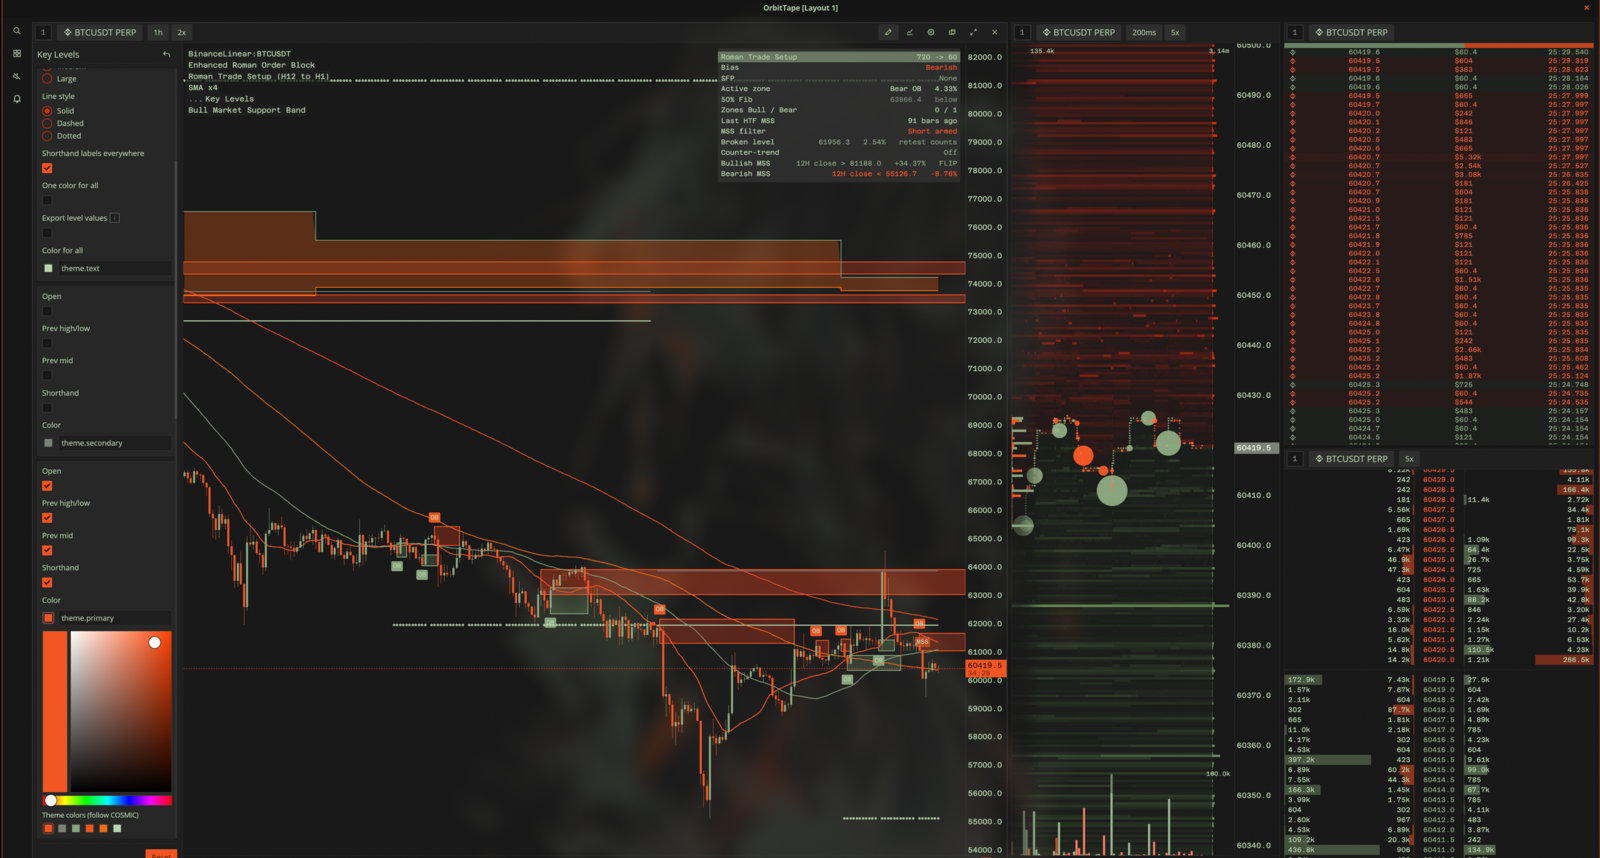
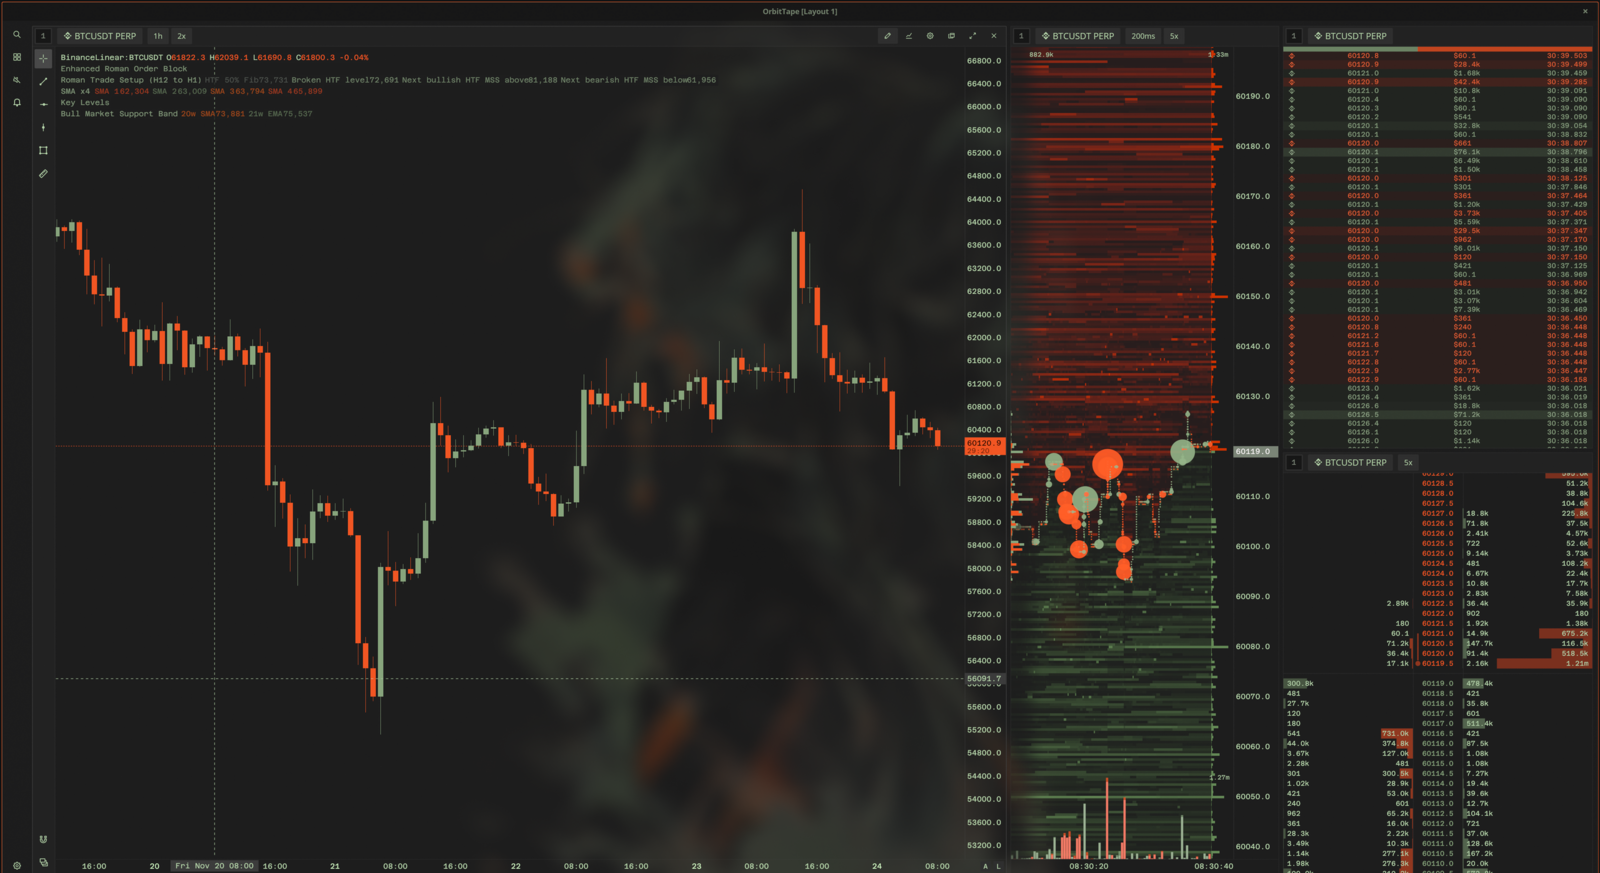
readme: fresh screenshots (chart, order blocks, theme)

diff --git a/README.md b/README.md
@@ -25,9 +25,11 @@ desktop on Pop!_OS. Orbit Tape is a fork of
 work; see [Credits](#credits).
 
 <div align="center">
-  <img src="assets/screenshots/main.png" alt="Orbit Tape on COSMIC: BTCUSDT 1H chart with Roman Trade Setup, Key Levels and SMA x4, a liquidity heatmap, time and sales, and a DOM ladder" style="max-width: 100%; height: auto;" />
+  <img src="assets/screenshots/main.png" alt="Orbit Tape on COSMIC: BTCUSDT 1H candles with indicators, a liquidity heatmap, time and sales, and a DOM ladder" style="max-width: 100%; height: auto;" />
   <br /><br />
-  <img src="assets/screenshots/indicators.png" alt="ETH-USDT-SWAP 1H chart with Key Levels and the indicator picker open" style="max-width: 100%; height: auto;" />
+  <img src="assets/screenshots/order-blocks.png" alt="Enhanced Roman Order Block on BTCUSDT 1H with its settings panel open" style="max-width: 100%; height: auto;" />
+  <br /><br />
+  <img src="assets/screenshots/theme.png" alt="Theme settings: follow COSMIC, accent colors and glass window" width="308" />
 </div>
 
 ## Features
